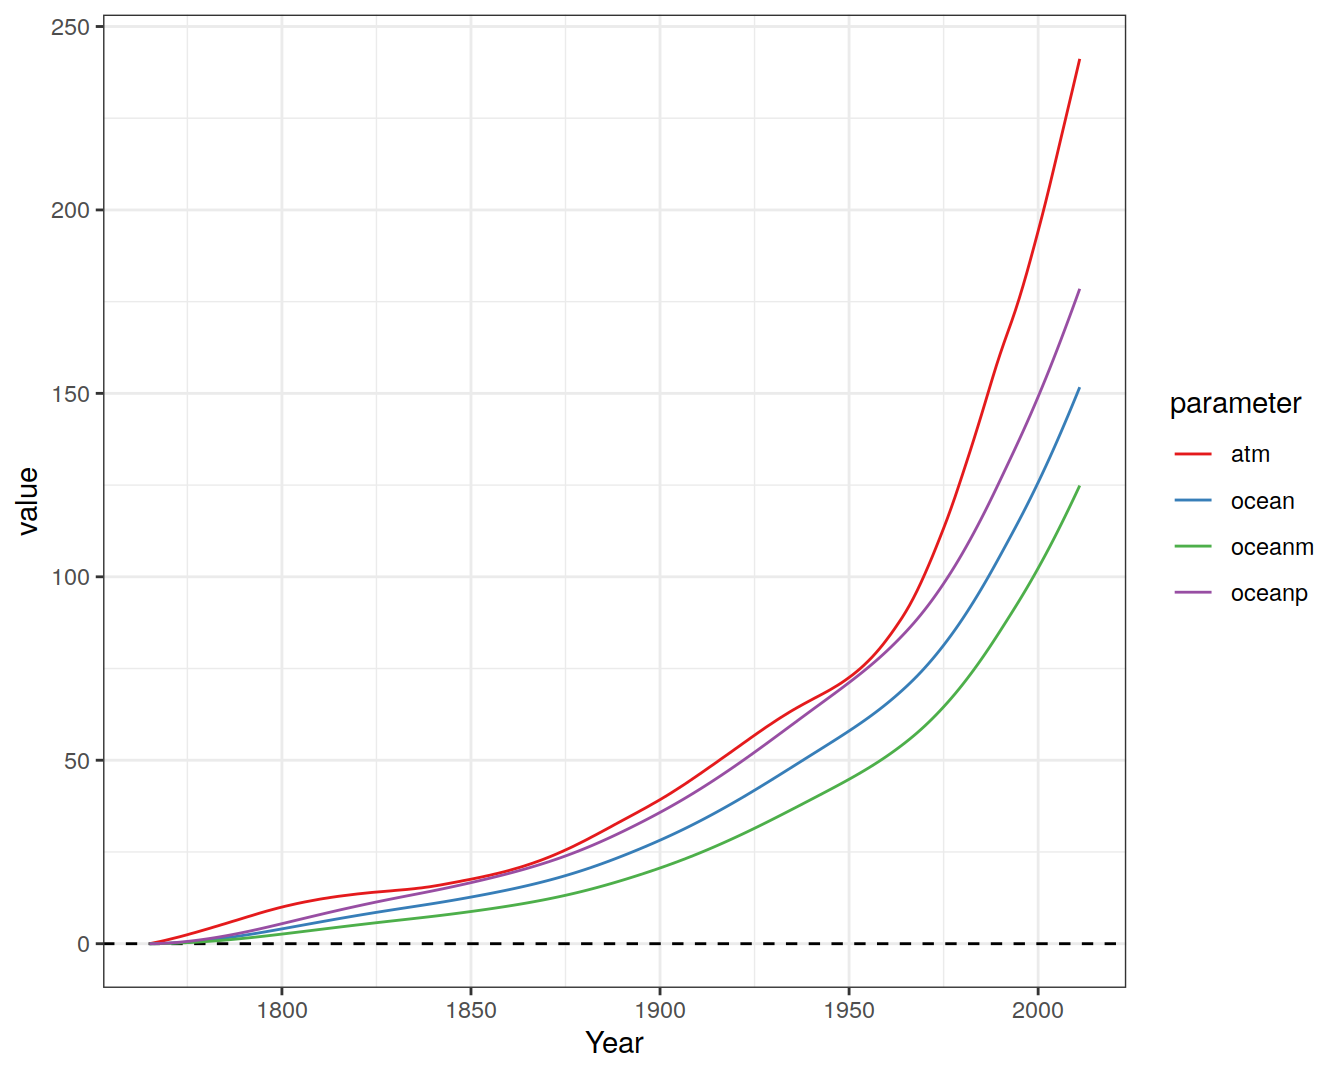
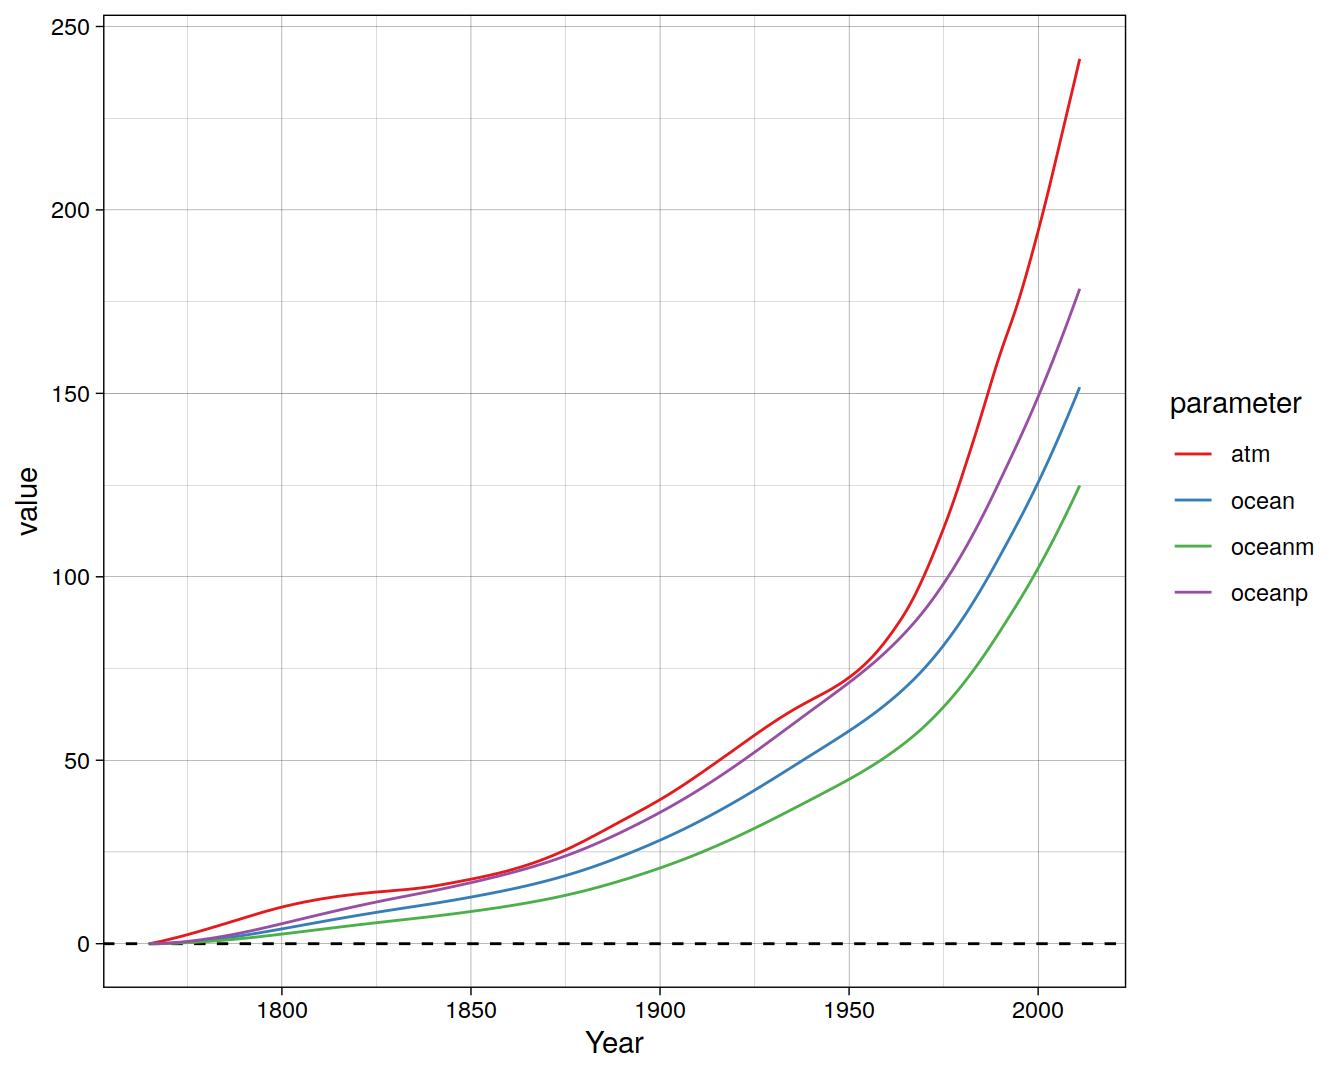
Build site.

diff --git a/docs/interior_storage.html b/docs/interior_storage.html
@@ -494,16 +494,16 @@ This reproducible <a href="https://rmarkdown.rstudio.com">R Markdown</a> analysi
 <div class="panel panel-default">
 <div class="panel-heading">
 <p class="panel-title">
-<a data-toggle="collapse" data-parent="#workflowr-checks" href="#strongRepositoryversionstrongahrefhttpsgithubcomjensdanielmuelleroceancarbonsinkreviewtree499f8cfcebd05c61b32a395677aeb6878cfcad84targetblank499f8cfa"> <span class="glyphicon glyphicon-ok text-success" aria-hidden="true"></span> <strong>Repository version:</strong> <a href="https://github.com/jens-daniel-mueller/ocean_carbon_sink_review/tree/499f8cfcebd05c61b32a395677aeb6878cfcad84" target="_blank">499f8cf</a> </a>
+<a data-toggle="collapse" data-parent="#workflowr-checks" href="#strongRepositoryversionstrongahrefhttpsgithubcomjensdanielmuelleroceancarbonsinkreviewtree1c96889125c3d03b3dee701d831c73907b52d5fbtargetblank1c96889a"> <span class="glyphicon glyphicon-ok text-success" aria-hidden="true"></span> <strong>Repository version:</strong> <a href="https://github.com/jens-daniel-mueller/ocean_carbon_sink_review/tree/1c96889125c3d03b3dee701d831c73907b52d5fb" target="_blank">1c96889</a> </a>
 </p>
 </div>
[2 lines of base64/hex data omitted]
 <div class="panel-body">
 <p>
 Great! You are using Git for version control. Tracking code development and connecting the code version to the results is critical for reproducibility.
 </p>
 <p>
-The results in this page were generated with repository version <a href="https://github.com/jens-daniel-mueller/ocean_carbon_sink_review/tree/499f8cfcebd05c61b32a395677aeb6878cfcad84" target="_blank">499f8cf</a>. See the <em>Past versions</em> tab to see a history of the changes made to the R Markdown and HTML files.
+The results in this page were generated with repository version <a href="https://github.com/jens-daniel-mueller/ocean_carbon_sink_review/tree/1c96889125c3d03b3dee701d831c73907b52d5fb" target="_blank">1c96889</a>. See the <em>Past versions</em> tab to see a history of the changes made to the R Markdown and HTML files.
 </p>
 <p>
 Note that you need to be careful to ensure that all relevant files for the analysis have been committed to Git prior to generating the results (you can use <code>wflow_publish</code> or <code>wflow_git_commit</code>). workflowr only checks the R Markdown file, but you know if there are other scripts or data files that it depends on. Below is the status of the Git repository when the results were generated:
@@ -558,6 +558,40 @@ Message
 </tr>
 </thead>
 <tbody>
+<tr>
+<td>
+Rmd
+</td>
+<td>
+<a href="https://github.com/jens-daniel-mueller/ocean_carbon_sink_review/blob/1c96889125c3d03b3dee701d831c73907b52d5fb/analysis/interior_storage.Rmd" target="_blank">1c96889</a>
+</td>
+<td>
+jens-daniel-mueller
+</td>
+<td>
+2022-02-24
+</td>
+<td>
+added interior storage
+</td>
+</tr>
+<tr>
+<td>
+html
+</td>
+<td>
+<a href="https://rawcdn.githack.com/jens-daniel-mueller/ocean_carbon_sink_review/e394f2126f19d124c0711fa47590de31166771bc/docs/interior_storage.html" target="_blank">e394f21</a>
+</td>
+<td>
+jens-daniel-mueller
+</td>
+<td>
+2022-02-24
+</td>
+<td>
+Build site.
+</td>
+</tr>
 <tr>
 <td>
 Rmd
@@ -676,7 +710,7 @@ added interior storage
 <pre><code>── Conflicts ────────────────────────────────────────── tidyverse_conflicts() ──
 x dplyr::filter() masks stats::filter()
 x dplyr::lag()    masks stats::lag()</code></pre>
-<pre class="r"><code>theme_set(theme_bw())</code></pre>
+<pre class="r"><code>theme_set(theme_linedraw())</code></pre>
 <div id="data" class="section level1">
 <h1>Data</h1>
 <pre class="r"><code>path_updata &lt;- &quot;/nfs/kryo/work/updata/&quot;
@@ -716,6 +750,8 @@ See problems(...) for more details.</code></pre>
 </div>
 <div id="time-series" class="section level1">
 <h1>Time series</h1>
+<div id="total" class="section level2">
+<h2>total</h2>
 <pre class="r"><code>khatiwala %&gt;% 
   select(Year, atm, starts_with(&quot;ocean&quot;)) %&gt;% 
   pivot_longer(-Year,
@@ -750,6 +786,17 @@ Date
 <tbody>
 <tr>
 <td>
+<a href="https://github.com/jens-daniel-mueller/ocean_carbon_sink_review/blob/e394f2126f19d124c0711fa47590de31166771bc/docs/figure/interior_storage.Rmd/time_series-1.png" target="_blank">e394f21</a>
+</td>
+<td>
+jens-daniel-mueller
+</td>
+<td>
+2022-02-24
+</td>
+</tr>
+<tr>
+<td>
 <a href="https://github.com/jens-daniel-mueller/ocean_carbon_sink_review/blob/86beabf40855e23fd63f5dcfa795923bd9036b91/docs/figure/interior_storage.Rmd/time_series-1.png" target="_blank">86beabf</a>
 </td>
 <td>
@@ -763,6 +810,9 @@ jens-daniel-mueller
 </table>
 </div>
 </div>
+</div>
+<div id="rates" class="section level2">
+<h2>rates</h2>
 <pre class="r"><code>khatiwala %&gt;% 
   select(Year, atm, starts_with(&quot;ocean&quot;)) %&gt;% 
   pivot_longer(-Year,
@@ -777,6 +827,43 @@ jens-daniel-mueller
   geom_line()</code></pre>
 <pre><code>Warning: Removed 4 row(s) containing missing values (geom_path).</code></pre>
 <p><img src="figure/interior_storage.Rmd/time_series_delta-1.png" width="672" style="display: block; margin: auto;" /></p>
+<p>
+<button type="button" class="btn btn-default btn-xs btn-workflowr btn-workflowr-fig" data-toggle="collapse" data-target="#fig-time_series_delta-1">
+Past versions of time_series_delta-1.png
+</button>
+</p>
+<div id="fig-time_series_delta-1" class="collapse">
+<div class="table-responsive">
+<table class="table table-condensed table-hover">
+<thead>
+<tr>
+<th>
+Version
+</th>
+<th>
+Author
+</th>
+<th>
+Date
+</th>
+</tr>
+</thead>
+<tbody>
+<tr>
+<td>
+<a href="https://github.com/jens-daniel-mueller/ocean_carbon_sink_review/blob/e394f2126f19d124c0711fa47590de31166771bc/docs/figure/interior_storage.Rmd/time_series_delta-1.png" target="_blank">e394f21</a>
+</td>
+<td>
+jens-daniel-mueller
+</td>
+<td>
+2022-02-24
+</td>
+</tr>
+</tbody>
+</table>
+</div>
+</div>
 <br>
 <p>
 <button type="button" class="btn btn-default btn-workflowr btn-workflowr-sessioninfo" data-toggle="collapse" data-target="#workflowr-sessioninfo" style="display: block;">
@@ -828,6 +915,7 @@ loaded via a namespace (and not attached):
 [61] hms_1.1.1          processx_3.5.2     fastmap_1.1.0      yaml_2.2.1        
 [65] colorspace_2.0-2   rvest_1.0.2        knitr_1.37         haven_2.4.3       
 [69] sass_0.4.0        </code></pre>
+</div>
 </div>
 </div>
 

diff --git a/docs/index.html b/docs/index.html
@@ -349,16 +349,16 @@ This reproducible <a href="https://rmarkdown.rstudio.com">R Markdown</a> analysi
 <div class="panel panel-default">
 <div class="panel-heading">
 <p class="panel-title">
-<a data-toggle="collapse" data-parent="#workflowr-checks" href="#strongRepositoryversionstrongahrefhttpsgithubcomjensdanielmuelleroceancarbonsinkreviewtree499f8cfcebd05c61b32a395677aeb6878cfcad84targetblank499f8cfa"> <span class="glyphicon glyphicon-ok text-success" aria-hidden="true"></span> <strong>Repository version:</strong> <a href="https://github.com/jens-daniel-mueller/ocean_carbon_sink_review/tree/499f8cfcebd05c61b32a395677aeb6878cfcad84" target="_blank">499f8cf</a> </a>
+<a data-toggle="collapse" data-parent="#workflowr-checks" href="#strongRepositoryversionstrongahrefhttpsgithubcomjensdanielmuelleroceancarbonsinkreviewtree1c96889125c3d03b3dee701d831c73907b52d5fbtargetblank1c96889a"> <span class="glyphicon glyphicon-ok text-success" aria-hidden="true"></span> <strong>Repository version:</strong> <a href="https://github.com/jens-daniel-mueller/ocean_carbon_sink_review/tree/1c96889125c3d03b3dee701d831c73907b52d5fb" target="_blank">1c96889</a> </a>
 </p>
 </div>
[2 lines of base64/hex data omitted]
 <div class="panel-body">
 <p>
 Great! You are using Git for version control. Tracking code development and connecting the code version to the results is critical for reproducibility.
 </p>
 <p>
-The results in this page were generated with repository version <a href="https://github.com/jens-daniel-mueller/ocean_carbon_sink_review/tree/499f8cfcebd05c61b32a395677aeb6878cfcad84" target="_blank">499f8cf</a>. See the <em>Past versions</em> tab to see a history of the changes made to the R Markdown and HTML files.
+The results in this page were generated with repository version <a href="https://github.com/jens-daniel-mueller/ocean_carbon_sink_review/tree/1c96889125c3d03b3dee701d831c73907b52d5fb" target="_blank">1c96889</a>. See the <em>Past versions</em> tab to see a history of the changes made to the R Markdown and HTML files.
 </p>
 <p>
 Note that you need to be careful to ensure that all relevant files for the analysis have been committed to Git prior to generating the results (you can use <code>wflow_publish</code> or <code>wflow_git_commit</code>). workflowr only checks the R Markdown file, but you know if there are other scripts or data files that it depends on. Below is the status of the Git repository when the results were generated:
@@ -413,6 +413,23 @@ Message
 </tr>
 </thead>
 <tbody>
+<tr>
+<td>
+html
+</td>
+<td>
+<a href="https://rawcdn.githack.com/jens-daniel-mueller/ocean_carbon_sink_review/e394f2126f19d124c0711fa47590de31166771bc/docs/index.html" target="_blank">e394f21</a>
+</td>
+<td>
+jens-daniel-mueller
+</td>
+<td>
+2022-02-24
+</td>
+<td>
+Build site.
+</td>
+</tr>
 <tr>
 <td>
 html
